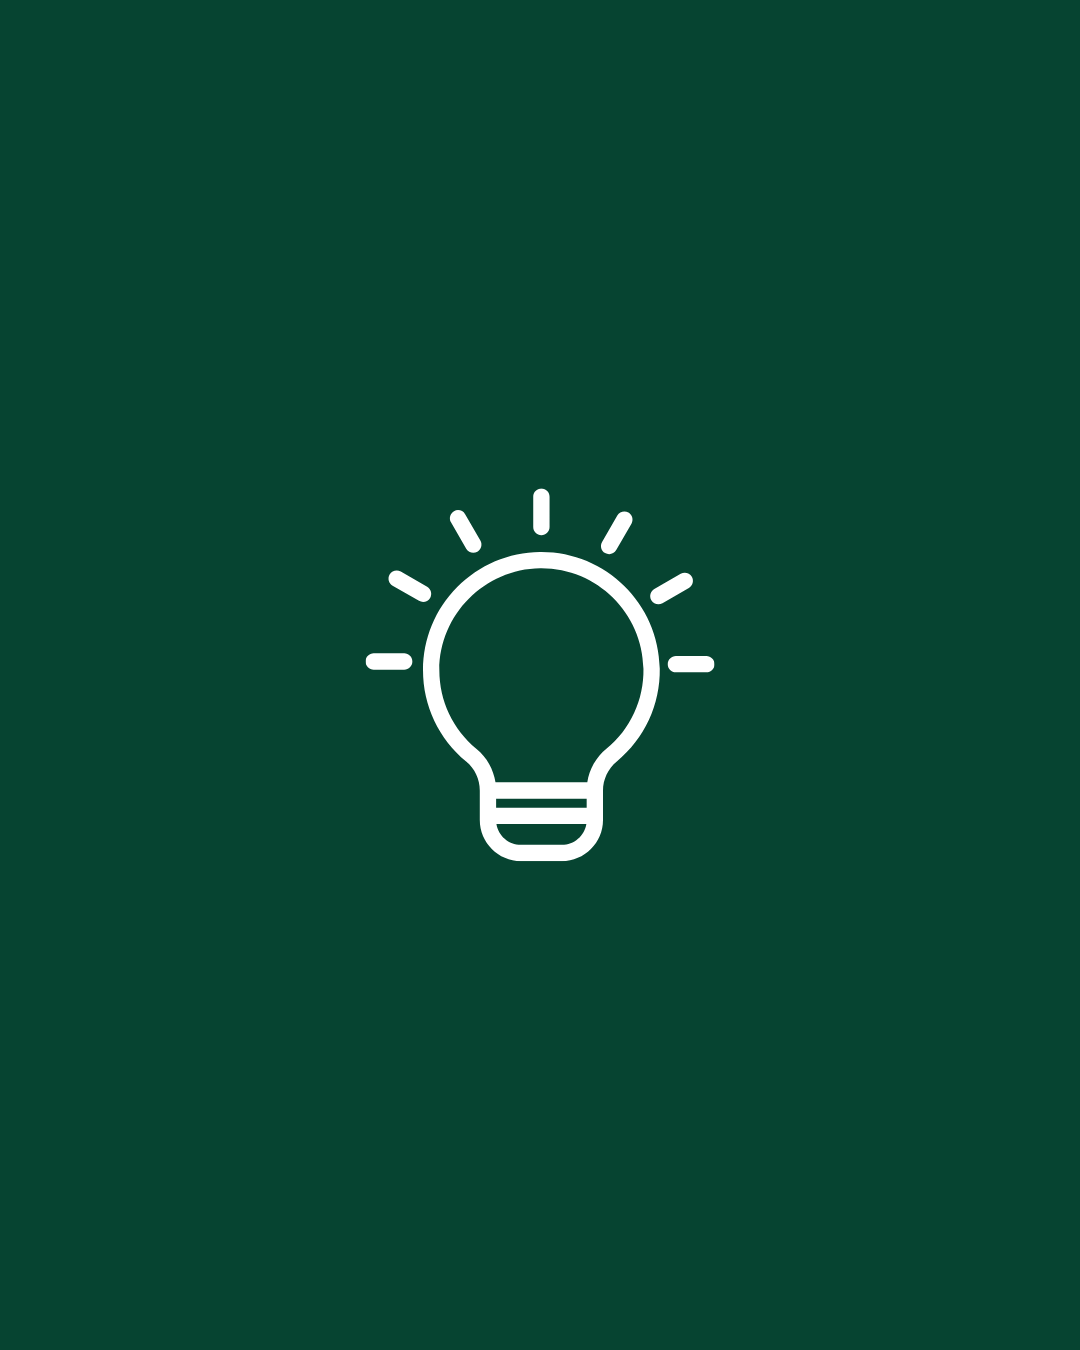
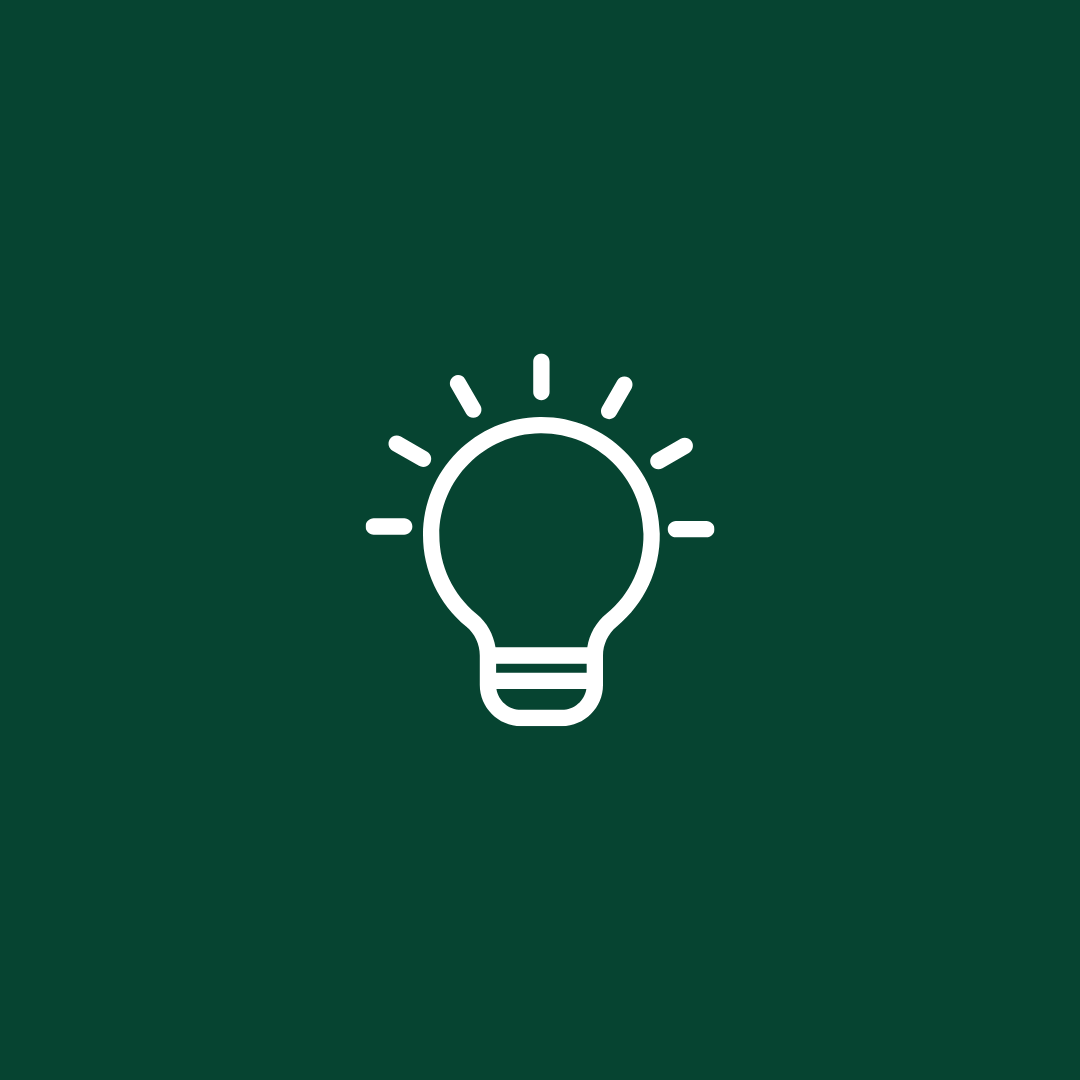
Change image shape

Changed region(s): [[0.3361, 0.3056, 0.6417, 0.4889], [0.3972, 0.5194, 0.6111, 0.6722]]

diff --git a/index.html b/index.html
@@ -30,7 +30,7 @@
     <!-- Hero Section -->
     <section id="home" class="hero">
         <p>
-            Soluciones publicitarias móviles innovadoras que conectan tu marca con el mundo
+            Publicidad digital con publcidad movil
         </p>
     </section>
 

diff --git a/css/about.css b/css/about.css
@@ -62,3 +62,7 @@
     color: #666;
     line-height: 1.6;
 }
+
+.icon-img{
+    border-radius: 50%;
+}
